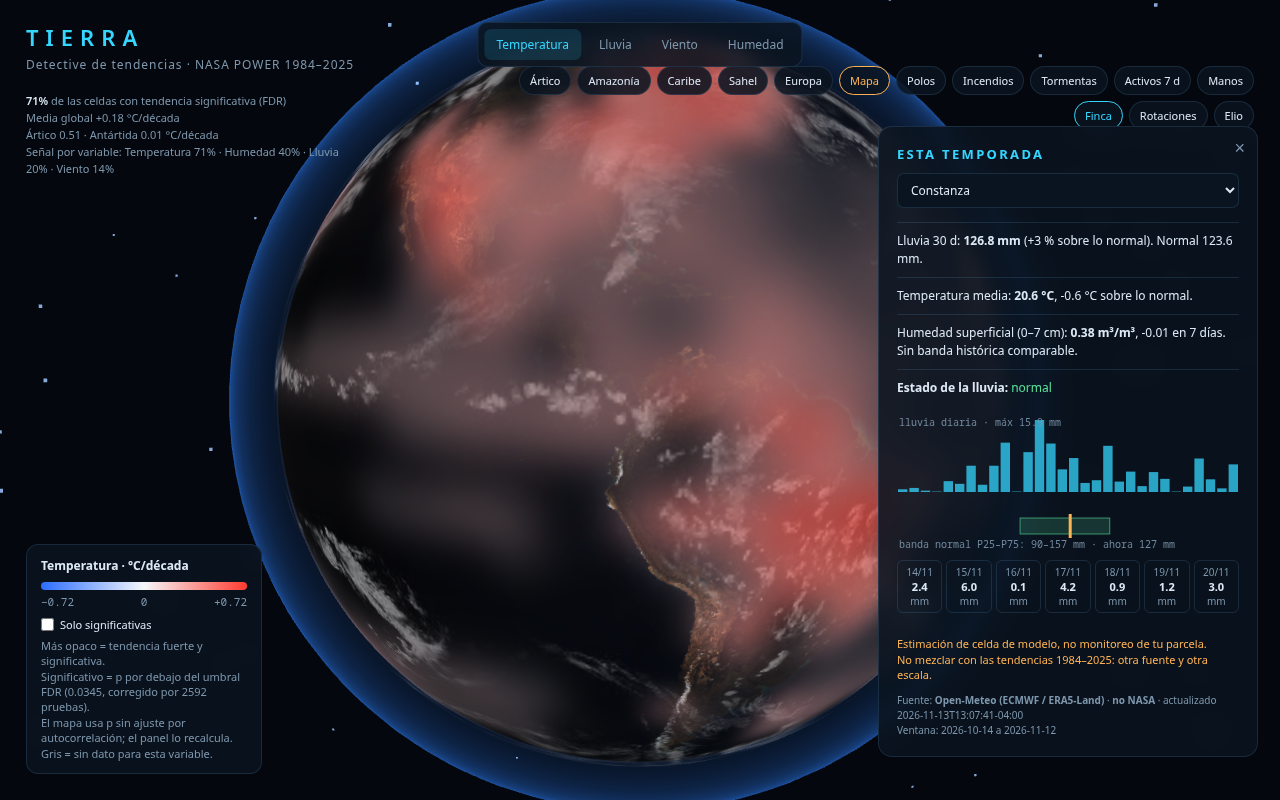
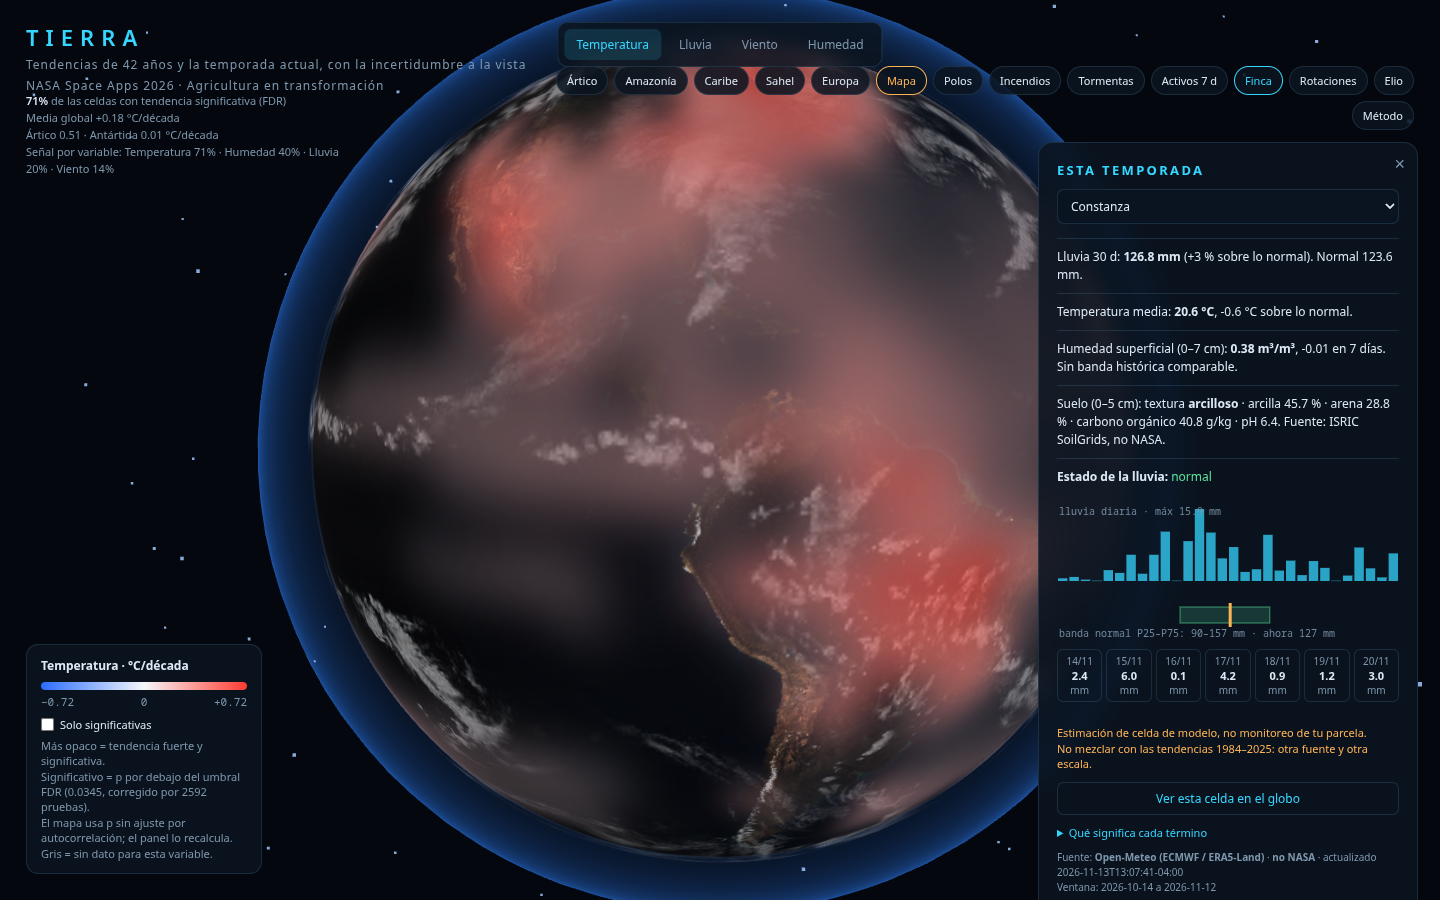
docs: portada con el desafio y capturas al dia

diff --git a/web/index.html b/web/index.html
@@ -22,6 +22,8 @@
   #marca { position: fixed; top: 22px; left: 26px; pointer-events: none; }
   #marca h1 { font-size: 22px; letter-spacing: 0.32em; font-weight: 600; color: var(--cian); }
   #marca p { font-size: 12px; color: var(--secundario); letter-spacing: 0.08em; margin-top: 4px; }
+  #desafio { font-size: 10px; color: rgba(126, 151, 173, .85); margin-top: 2px;
+    letter-spacing: .05em; }
 
   #variables { position: fixed; top: 22px; left: 50%; transform: translateX(-50%);
     display: flex; gap: 6px; background: var(--panel); padding: 6px;
@@ -161,7 +163,8 @@
 <canvas id="lienzo"></canvas>
 <header id="marca">
   <h1>TIERRA</h1>
-  <p id="subtitulo">Detective de tendencias · NASA POWER 1984–2025</p>
+  <p id="subtitulo">Tendencias de 42 años y la temporada actual, con la incertidumbre a la vista</p>
+  <p id="desafio">NASA Space Apps 2026 · Agricultura en transformación</p>
 </header>
 <nav id="variables"></nav>
 <div id="chips">
